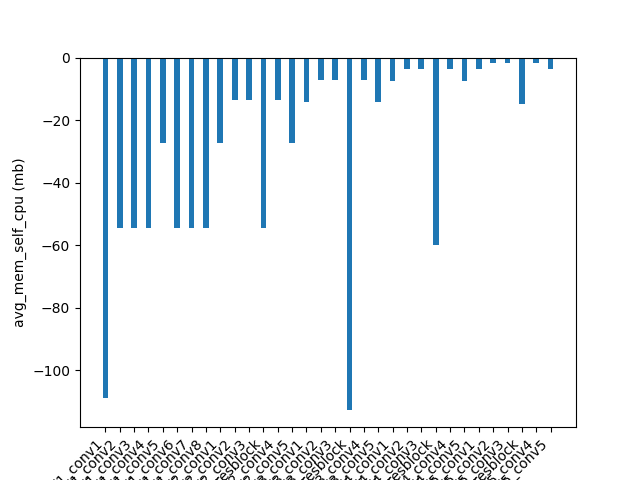
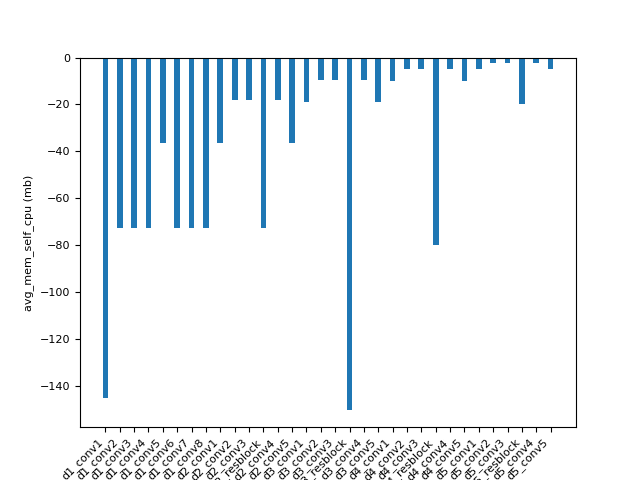
bug fix

diff --git a/models.py b/models.py
@@ -123,7 +123,7 @@ class DownSample1(nn.Module):
         self.conv8 = Conv_Bn_Activation(128, 64, 1, 1, 'mish')
 
     def forward(self, input, prof_wrapper, usingcuda=False):
-        prof_wrapper.scale.weight(tensor_src="input", data=input)
+        prof_wrapper.scale.weight(tensor_src="user_input", data=input)
 
         # ----------------------------------------------------------------
         prof_wrapper.scale.dependency_check(tensor_name="input", src="user_input", dest="d1_conv1")
@@ -306,6 +306,7 @@ class DownSample1(nn.Module):
         # [route]
         # layers = -1, -7
         x7 = torch.cat([x7, x3], dim=1)
+        prof_wrapper.scale.dependency_check(tensor_name="x3", src="d1_conv3", dest="d1_conv8")
         # ----------------------------------------------------------------
         prof_wrapper.scale.dependency_check(tensor_name="x7", src="d1_conv7", dest="d1_conv8")
         tmp_input = torch.clone(x7)
@@ -476,6 +477,7 @@ class DownSample2(nn.Module):
         prof_wrapper.scale.weight(tensor_src="d2_conv4", data=x4)
         # ----------------------------------------------------------------
         x4 = torch.cat([x4, x2], dim=1)
+        prof_wrapper.scale.dependency_check(tensor_name="x2", src="d2_conv2", dest="d2_conv5")
         # ----------------------------------------------------------------
         prof_wrapper.scale.dependency_check(tensor_name="x4", src="d2_conv4", dest="d2_conv5")
         tmp_input = torch.clone(x4)
@@ -651,6 +653,7 @@ class DownSample3(nn.Module):
         prof_wrapper.scale.weight(tensor_src="d3_conv4", data=x4)
         # ----------------------------------------------------------------
         x4 = torch.cat([x4, x2], dim=1)
+        prof_wrapper.scale.dependency_check(tensor_name="x2", src="d3_conv2", dest="d3_conv5")
         # ----------------------------------------------------------------
         prof_wrapper.scale.dependency_check(tensor_name="x4", src="d3_conv4", dest="d3_conv5")
         tmp_input = torch.clone(x4)
@@ -825,6 +828,7 @@ class DownSample4(nn.Module):
         prof_wrapper.scale.weight(tensor_src="d4_conv4", data=x4)
         # ----------------------------------------------------------------
         x4 = torch.cat([x4, x2], dim=1)
+        prof_wrapper.scale.dependency_check(tensor_name="x2", src="d4_conv2", dest="d4_conv5")
         # ----------------------------------------------------------------
         prof_wrapper.scale.dependency_check(tensor_name="x4", src="d4_conv4", dest="d4_conv5")
         tmp_input = torch.clone(x4)
@@ -999,6 +1003,7 @@ class DownSample5(nn.Module):
         prof_wrapper.scale.weight(tensor_src="d5_conv4", data=x4)
         # ----------------------------------------------------------------
         x4 = torch.cat([x4, x2], dim=1)
+        prof_wrapper.scale.dependency_check(tensor_name="x2", src="d5_conv2", dest="d5_conv5")
         # ----------------------------------------------------------------
         prof_wrapper.scale.dependency_check(tensor_name="x4", src="d5_conv4", dest="d5_conv5")
         tmp_input = torch.clone(x4)
@@ -1023,6 +1028,7 @@ class DownSample5(nn.Module):
         prof_wrapper.tt.toc("d5_conv5")
         prof_wrapper.scale.weight(tensor_src="d5_conv5", data=x5)
         # ----------------------------------------------------------------
+        prof_wrapper.scale.dependency_check(tensor_name="x5", src="d5_conv5", dest="backbone_output")
 
         # x1 = self.conv1(input)
         # x2 = self.conv2(x1)

diff --git a/memorizer.py b/memorizer.py
@@ -86,7 +86,8 @@ class MemRec(object):
         print("mem_self_cpu | Average Mem Consumption of Each Layer")
         for key, value in self.mem_self_cpu.items():
             # value.pop(0)
-            print(f"{key} :: {sum(value) / len(value)}")
+            print("{:<15} {:<20}".format(key, sum(value) / len(value)))
+            # print(f"{key} :: {sum(value) / len(value)}")
             layernames.append(key)
             avg_mems.append(sum(value) / len(value))
 
@@ -104,7 +105,8 @@ class MemRec(object):
         print("mem_cpu | Average Mem Consumption of Each Layer")
         for key, value in self.mem_cpu.items():
             # value.pop(0)
-            print(f"{key} :: {sum(value) / len(value)}")
+            print("{:<15} {:<20}".format(key, sum(value) / len(value)))
+            # print(f"{key} :: {sum(value) / len(value)}")
             layernames.append(key)
             avg_mems.append(sum(value) / len(value))
 
@@ -123,7 +125,8 @@ class MemRec(object):
             print("mem_self_cuda | Average Mem Consumption of Each Layer")
             for key, value in self.mem_self_cuda.items():
                 # value.pop(0)
-                print(f"{key} :: {sum(value) / len(value)}")
+                print("{:<15} {:<20}".format(key, sum(value) / len(value)))
+                # print(f"{key} :: {sum(value) / len(value)}")
                 layernames.append(key)
                 avg_mems.append(sum(value) / len(value))
 
@@ -141,7 +144,8 @@ class MemRec(object):
             print("mem_cuda | Average Mem Consumption of Each Layer")
             for key, value in self.mem_cuda.items():
                 # value.pop(0)
-                print(f"{key} :: {sum(value) / len(value)}")
+                print("{:<15} {:<20}".format(key, sum(value) / len(value)))
+                # print(f"{key} :: {sum(value) / len(value)}")
                 layernames.append(key)
                 avg_mems.append(sum(value) / len(value))
 

diff --git a/timer.py b/timer.py
@@ -21,15 +21,18 @@ class Clock(object):
         plt.rcParams.update({'font.size': 8})
         if sample:
             for key, value in self.time_records.items():
+                # print("{:<15} {:<20}".format(key, value))
                 print(key, end=' :: ')
                 print(value, flush=True)
+
 
         layernames = []
         avg_times = []
         print("Average Time of Each Layer")
         for key, value in self.time_records.items():
             # value.pop(0)
-            print(f"{key} :: {sum(value) / len(value)}")
+            print("{:<15} {:<20}".format(key, sum(value) / len(value)))
+            # print(f"{key} :: {sum(value) / len(value)}")
             layernames.append(key)
             avg_times.append(sum(value) / len(value))
 

diff --git a/profilerwrapper.py b/profilerwrapper.py
@@ -10,6 +10,6 @@ class ProfilerWrapper(object):
         self.scale = datascale.DataScale()
 
     def report(self, sample=False):
-        self.mr.report(sample=sample)
         self.tt.report(sample=sample)
+        self.mr.report(sample=sample)
         self.scale.report()

diff --git a/test.py b/test.py
@@ -17,7 +17,7 @@ model = Yolov4()
 model.to(device)
 print("YOLOv4 is Ready")
 
-n = 15
+n = 20
 print(f"input size: {n}")
 input = torch.randn(n, 3, 244, 244).to(device)
 model.forward(input, prof_wrapper, usingcuda)
